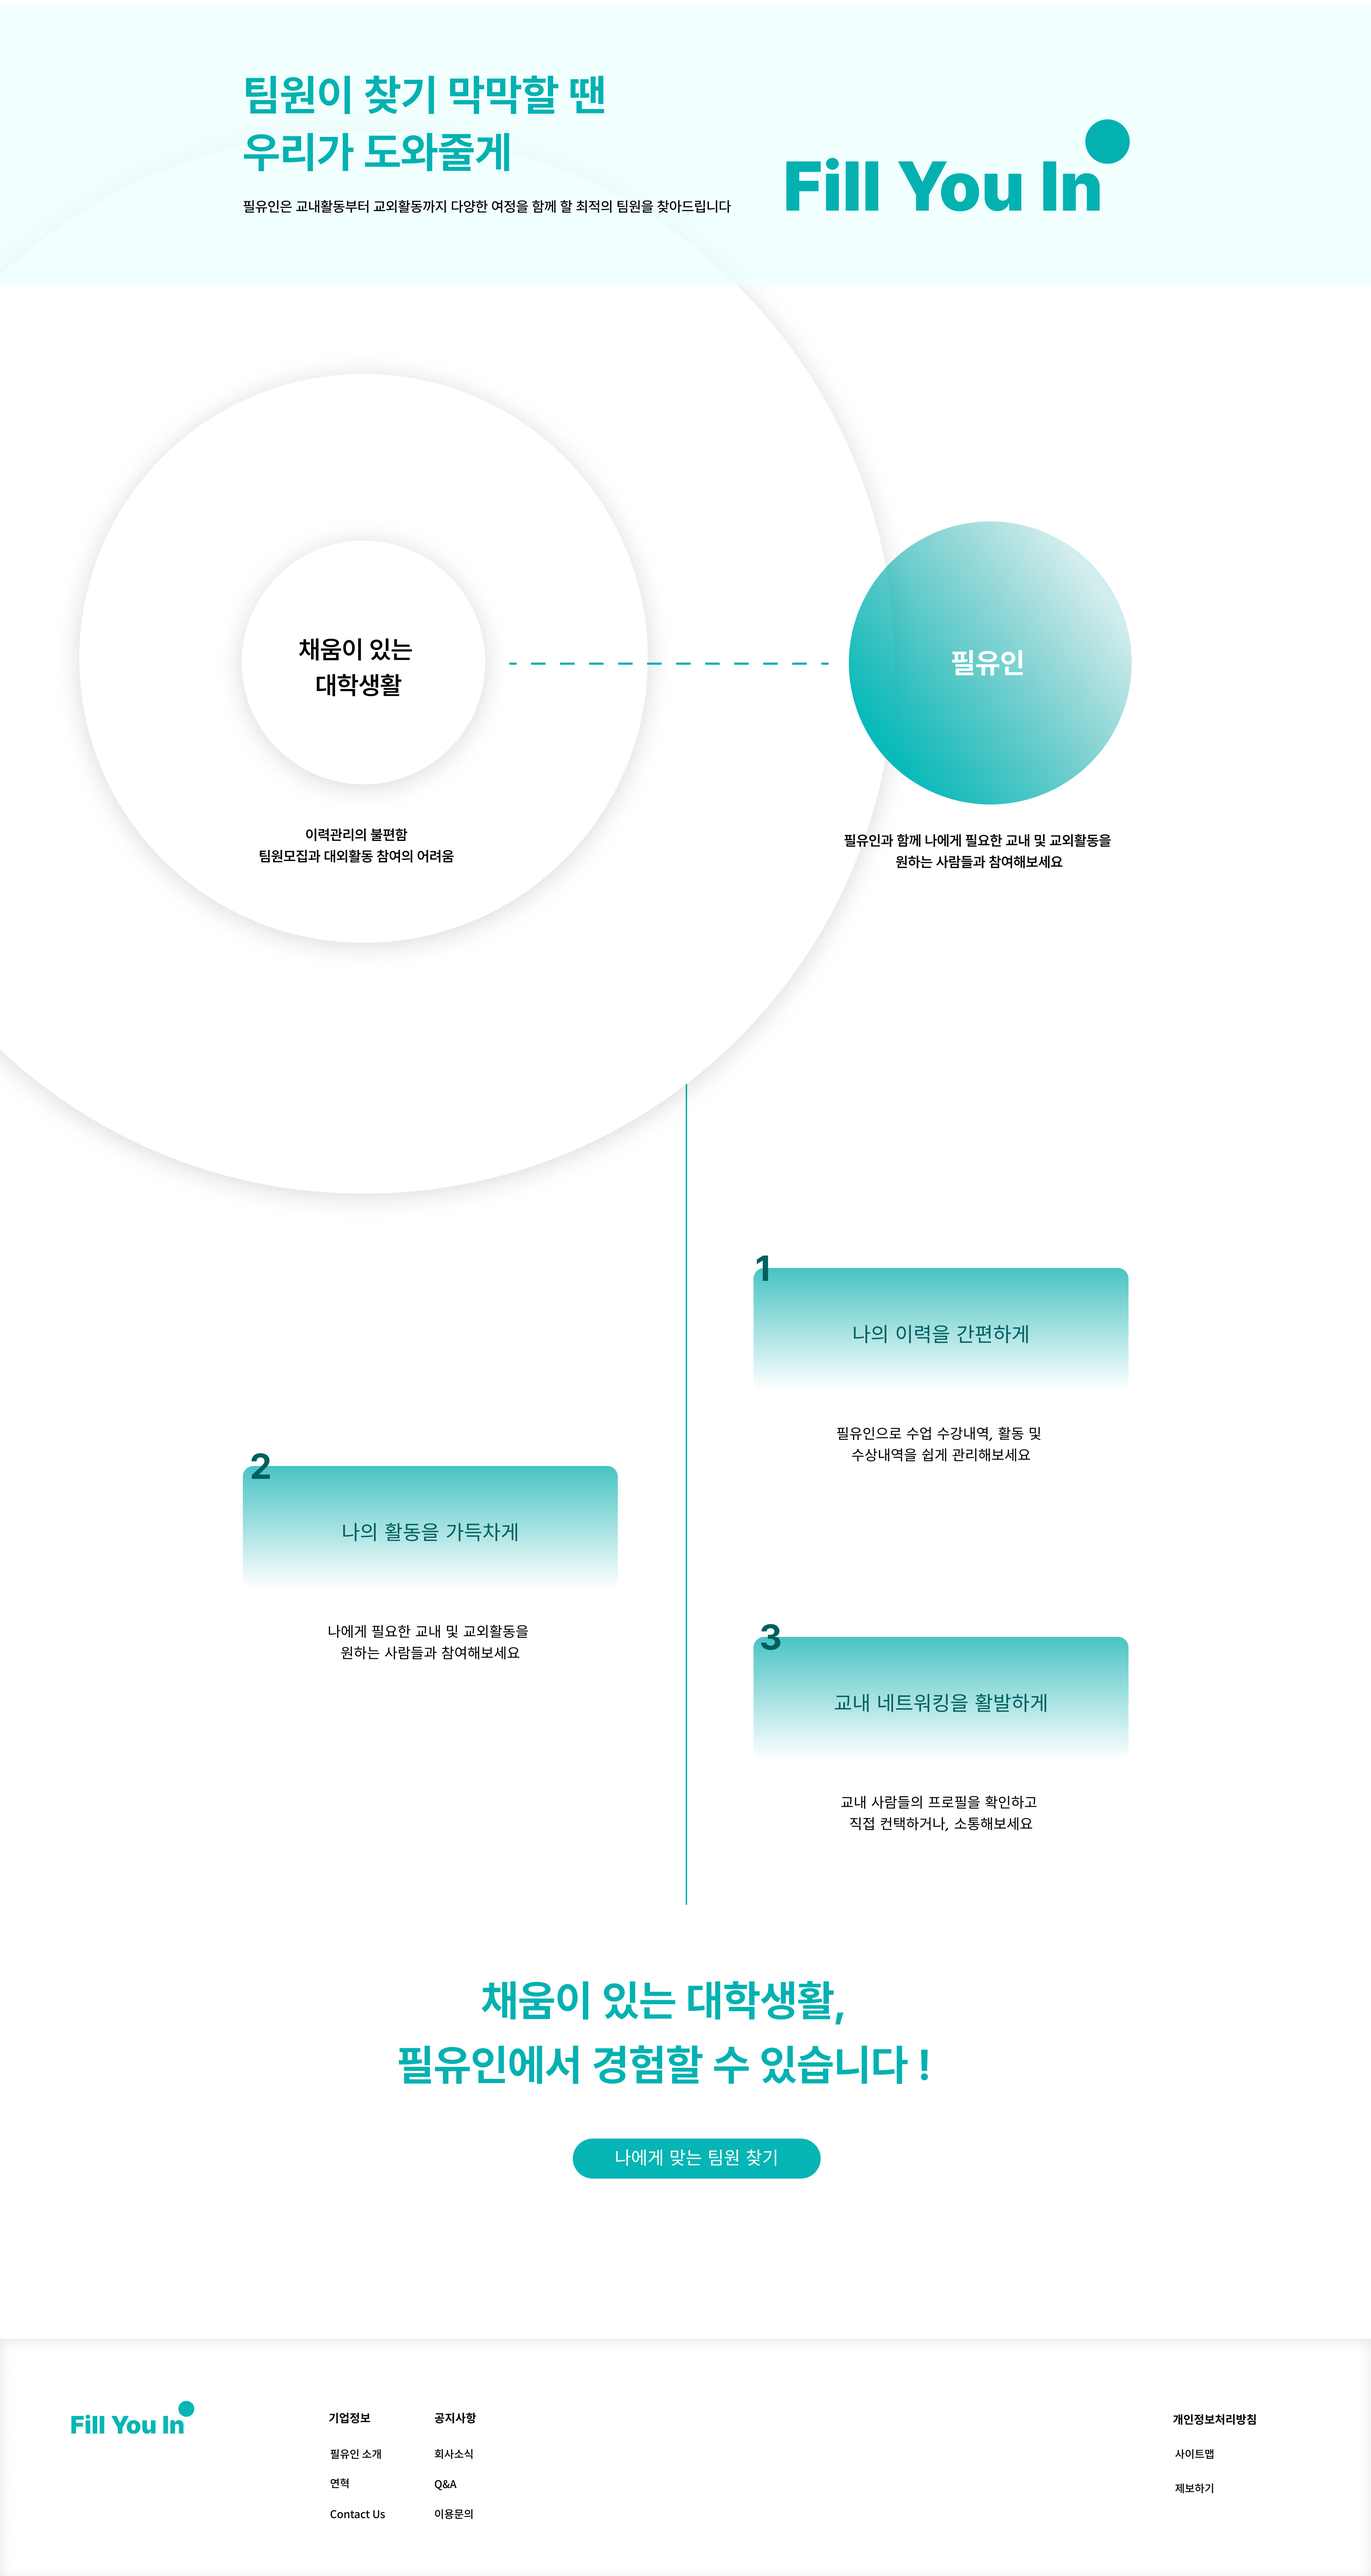
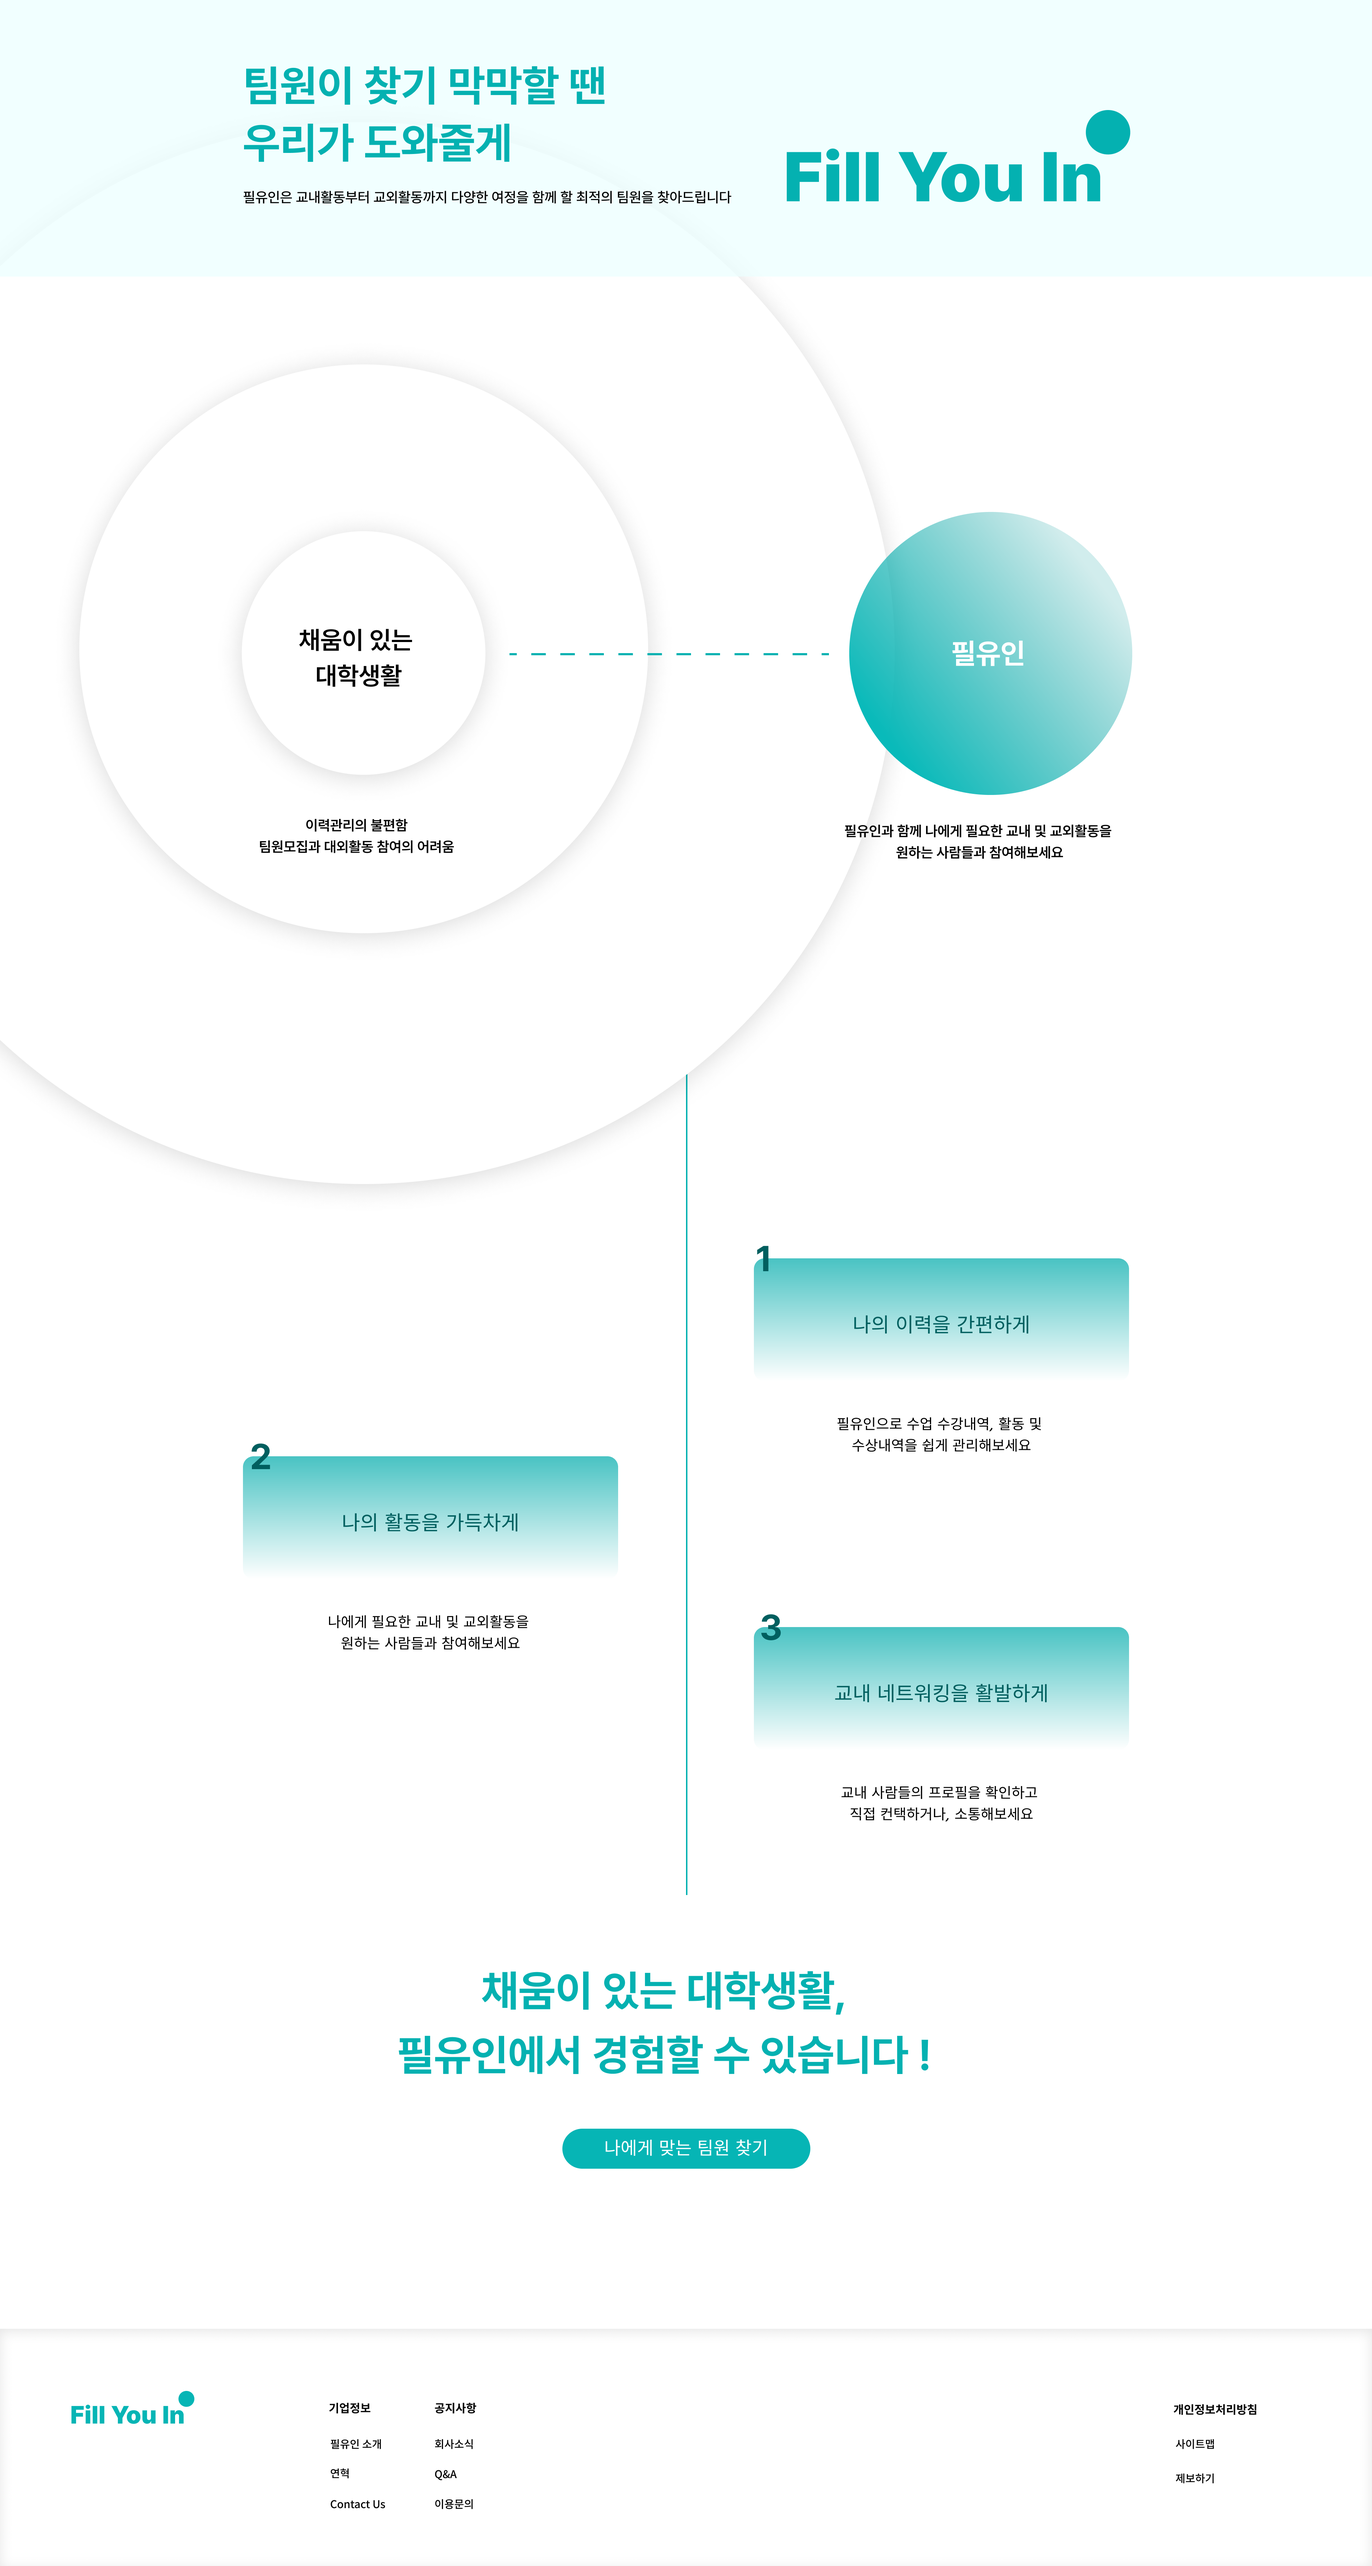
style : 메인 페이지 이미지 변경

diff --git a/src/components/MainPage.js b/src/components/MainPage.js
@@ -138,10 +138,12 @@ function MainPage() {
             <p className={styles.name}>
               {post.firstName} {post.lastName}
             </p>
-            <p className={styles.academicInfo}>
-              한동대학교 {post.department} {post.semester}학기
-            </p>
-            <p className={styles.academicInfo}>{post.email}</p>
+            <Wrapper>
+              <p className={styles.academicInfo}>
+                한동대학교 {post.department} {post.semester}학기
+              </p>
+              <p className={styles.academicInfo}>{post.email}</p>
+            </Wrapper>
           </TextWrapper>
         </div>
         <Link to="mainImg" spy={true} smooth={true}>
@@ -152,51 +154,7 @@ function MainPage() {
       </div>
 
       <div className={styles.grid}>
-        <div className={styles.announcement}>
-          <h4>교내공지</h4>
-          <div className={styles.flex2}>
-            <div>
-              <div className={styles.news}>
-                <p>01</p>
-                <p>2024 SW 페스티벌 개최 안내</p>
-              </div>
-              <div className={styles.news}>
-                <p>02</p>
-                <p>2024 SW 창업 경진 대회 안내</p>
-              </div>
-            </div>
-            <div>
-              <div className={styles.news}>
-                <p>03</p>
-                <p>THE CEO 공모전 안내</p>
-              </div>
-              <div className={styles.news}>
-                <p>04</p>
-                <p>제 2회 학생 주도형 SW 해커톤 경진 대회</p>
-              </div>
-            </div>
-            <div>
-              <div className={styles.news}>
-                <p>05</p>
-                <p>KT AIVLE School 4기 교육학교 추천</p>
-              </div>
-              <div className={styles.news}>
-                <p>06</p>
-                <p>대경권 SW 산학 프로젝트 경진대회</p>
-              </div>
-            </div>
-            <div>
-              <div className={styles.news}>
-                <p>07</p>
-                <p>제 10회 소개딩 안내</p>
-              </div>
-              <div className={styles.news}>
-                <p>08</p>
-                <p>트레이딩 머신 프로젝트</p>
-              </div>
-            </div>
-          </div>
-        </div>
+        <img src="img/mainImg2.png" alt="img" />
         <img src="img/mainImg.png" alt="img" id="mainImg" />
       </div>
     </div>
@@ -268,4 +226,8 @@ const TextWrapper = styled.div`
   > p {
     margin-bottom: 0px;
   }
+`;
+
+const Wrapper = styled.div`
+  margin-top: 10px;
 `;

diff --git a/src/components/MainPage.module.css b/src/components/MainPage.module.css
@@ -55,7 +55,7 @@ body {
 
 .section1 .move {
   position: absolute;
-  top: 60vh;
+  top: 55vh;
   left: 63vw;
   padding-left: 1px;
   padding-right: 1px;
@@ -177,7 +177,7 @@ body {
   margin-bottom: 10px;
 }
 .academicInfo {
-  font-family: "Pretendard-SemiBold";
+  font-family: "Pretendard-ExtraThin";
   font-size: 15px;
   margin: 0;
   margin-top: 5px;
